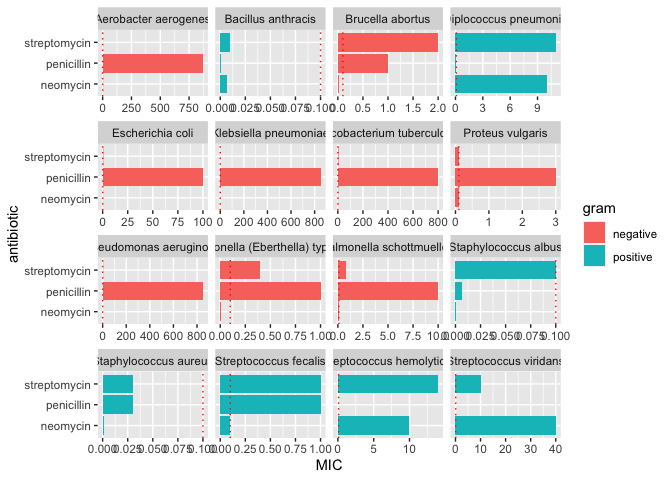
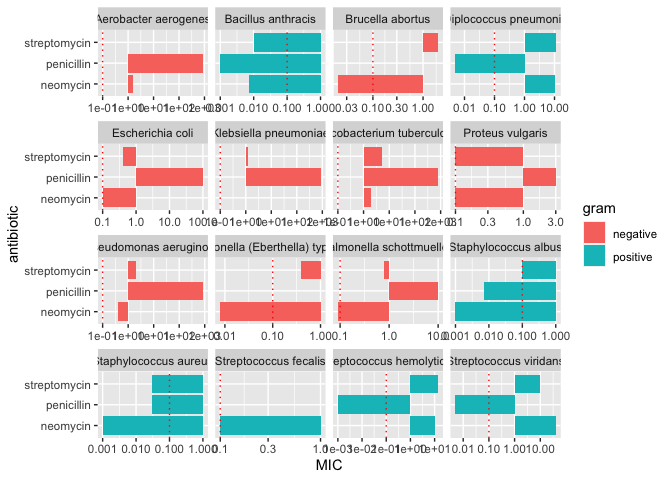
Add log to graph

diff --git a/challenges/c05-antibiotics-assignment.md b/challenges/c05-antibiotics-assignment.md
@@ -304,7 +304,8 @@ df_antibiotics_long %>%
     xintercept = 0.1,
     linetype = "dotted",
     color = "red"
-  ) 
+  ) + 
+  scale_x_log10()
 ```
 
 ![](c05-antibiotics-assignment_files/figure-gfm/q1.2-1.png)<!-- -->
